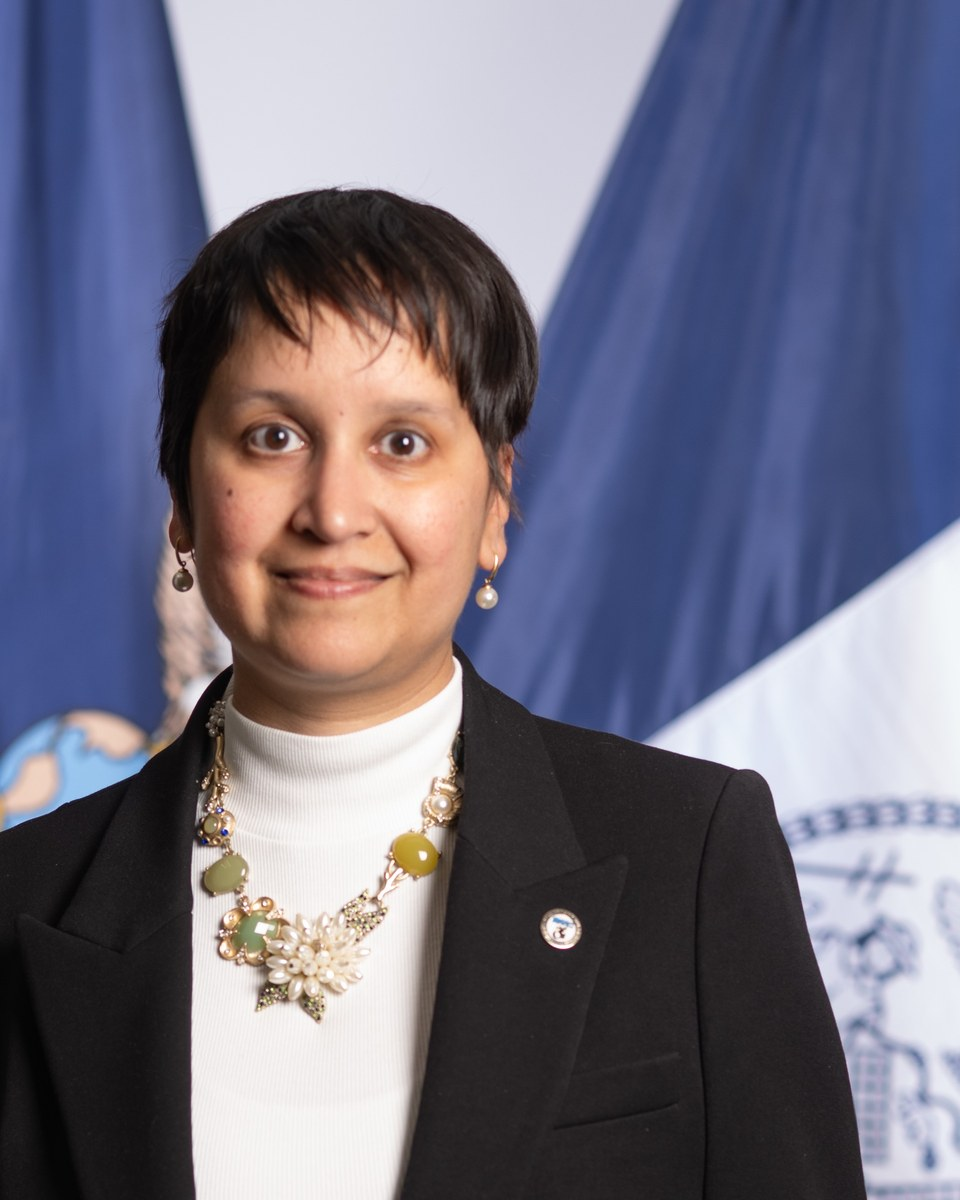
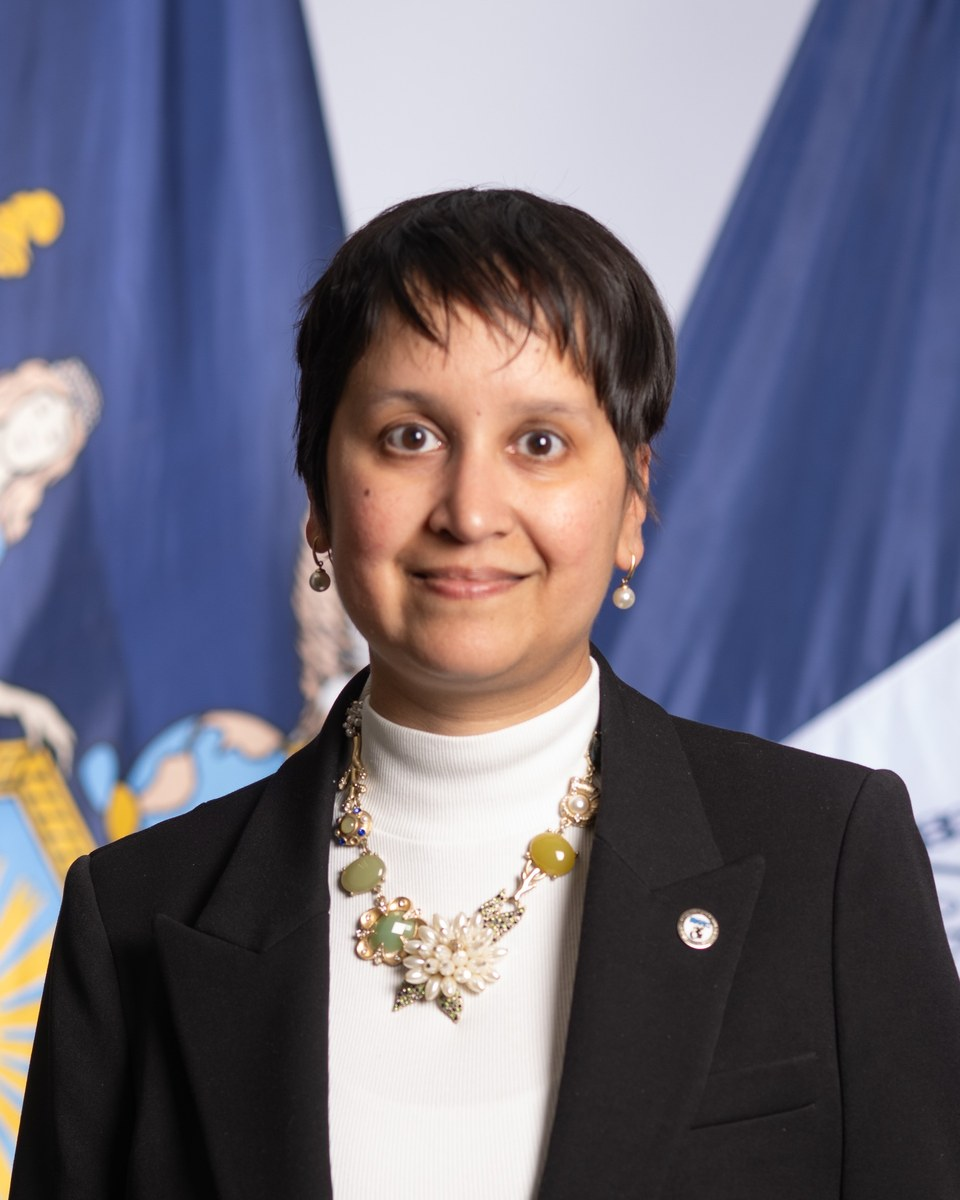
Add Opening Remarks details and center Nisha portrait

diff --git a/components/agenda/AgendaTimeline.tsx b/components/agenda/AgendaTimeline.tsx
@@ -1,14 +1,14 @@
 "use client";
 
 import { Fragment, useState, useSyncExternalStore, type CSSProperties } from "react";
-import { confirmedSpeakers, type AgendaEntry } from "@/data/agenda";
+import type { AgendaEntry } from "@/data/agenda";
 import { clock, formatDuration, formatRange } from "@/lib/agenda-time";
 import { CourseLabel, CreditLine, People, ViewSpeakersLink, hasDetails } from "./AgendaParts";
 import styles from "./Agenda.module.css";
 
 const desktopQuery = "(min-width: 901px)";
 
-/** Wide screens show a detail panel beside the rail; narrow screens expand the course in place. */
+/** Wide screens show a detail panel beside the rail; narrow screens expand the entry in place. */
 function useIsDesktop() {
   return useSyncExternalStore(
     notify => {
@@ -42,7 +42,7 @@ function Rail({ marker }: { marker?: "course" | "plain" }) {
   );
 }
 
-function CourseSummary({ entry }: { entry: AgendaEntry }) {
+function EntrySummary({ entry }: { entry: AgendaEntry }) {
   return (
     <span className={styles.summary}>
       <CourseLabel entry={entry} />
@@ -54,46 +54,37 @@ function CourseSummary({ entry }: { entry: AgendaEntry }) {
 }
 
 function PlainBlock({ entry }: { entry: AgendaEntry }) {
-  const speakers = confirmedSpeakers(entry);
   return (
     <div className={`${styles.block} ${styles.blockPlain}`}>
       <span className={styles.title}>{entry.title}</span>
       {entry.kind === "keynote" ? <span className={styles.range}>{formatRange(entry.start, entry.end)}</span> : null}
-      {speakers.length > 0 ? (
-        <ul className={styles.speakers} aria-label={`${entry.title} speakers`}>
-          {speakers.map(speaker => (
-            <li key={speaker.name}>
-              <span className={styles.speakerName}>{speaker.name}</span>
-              {speaker.role ? <span className={styles.speakerRole}>{speaker.role}</span> : null}
-            </li>
-          ))}
-        </ul>
-      ) : null}
+      <People entry={entry} />
     </div>
   );
 }
 
-interface CourseCellProps {
+interface DetailsCellProps {
   entry: AgendaEntry;
   open: boolean;
+  controlsId: string;
   onToggle: () => void;
 }
 
-/** Course block: a button that selects it (wide) or expands its details beneath it (narrow). */
-function CourseCell({ entry, open, onToggle }: CourseCellProps) {
+/** Select an entry in the wide panel or expand its details beneath the row on narrow screens. */
+function DetailsCell({ entry, open, controlsId, onToggle }: DetailsCellProps) {
   if (!hasDetails(entry)) {
     return (
       <div className={`${styles.block} ${styles.blockCourse}`}>
-        <CourseSummary entry={entry} />
+        <EntrySummary entry={entry} />
       </div>
     );
   }
   const detailsId = `agenda-details-${entry.id}`;
   return (
     <div className={styles.cell}>
-      <button type="button" className={styles.courseButton} aria-expanded={open} aria-controls={detailsId} onClick={onToggle}>
+      <button type="button" className={styles.courseButton} aria-expanded={open} aria-controls={controlsId} onClick={onToggle}>
         <span className={`${styles.block} ${styles.blockCourse}`}>
-          <CourseSummary entry={entry} />
+          <EntrySummary entry={entry} />
           <span className={styles.more}>
             Details
             <svg className={styles.chevron} aria-hidden="true" width="16" height="16" viewBox="0 0 24 24" fill="none" stroke="currentColor" strokeWidth="1.5" strokeLinecap="round" strokeLinejoin="round"><path d="m6 9 6 6 6-6" /></svg>
@@ -112,7 +103,7 @@ function CourseCell({ entry, open, onToggle }: CourseCellProps) {
   );
 }
 
-function CoursePanel({ entry, animate }: { entry: AgendaEntry; animate: boolean }) {
+function DetailsPanel({ entry, animate }: { entry: AgendaEntry; animate: boolean }) {
   return (
     <article className={styles.panelBody} data-switched={animate || undefined}>
       <header className={styles.panelHeader}>
@@ -132,13 +123,13 @@ function CoursePanel({ entry, animate }: { entry: AgendaEntry; animate: boolean 
 
 export function AgendaTimeline({ entries }: { entries: readonly AgendaEntry[] }) {
   const isDesktop = useIsDesktop();
-  const courses = entries.filter(entry => entry.kind === "course" && hasDetails(entry));
-  // Wide: one course is always selected. Narrow: courses start collapsed and toggle independently.
-  const [selectedId, setSelectedId] = useState(courses[0]?.id);
+  const detailEntries = entries.filter(hasDetails);
+  // Preserve the initial course selection; remarks join the same panel when selected.
+  const [selectedId, setSelectedId] = useState(() => detailEntries.find(entry => entry.kind === "course")?.id ?? detailEntries[0]?.id);
   const [expandedId, setExpandedId] = useState<string | null>(null);
-  // The panel fades only after the visitor switches courses, never on first paint.
+  // The panel fades only after the visitor switches entries, never on first paint.
   const [switched, setSwitched] = useState(false);
-  const selected = courses.find(course => course.id === selectedId);
+  const selected = detailEntries.find(entry => entry.id === selectedId);
 
   const isOpen = (id: string) => (isDesktop ? selectedId === id : expandedId === id);
   const toggle = (id: string) => {
@@ -174,8 +165,13 @@ export function AgendaTimeline({ entries }: { entries: readonly AgendaEntry[] })
                   <div className={`${styles.block} ${styles.blockBreak}`}>
                     {entry.title}{entry.end === undefined ? null : ` · ${formatDuration(entry.end - entry.start)}`}
                   </div>
-                ) : entry.kind === "course" ? (
-                  <CourseCell entry={entry} open={isOpen(entry.id)} onToggle={() => toggle(entry.id)} />
+                ) : entry.kind === "course" || hasDetails(entry) ? (
+                  <DetailsCell
+                    entry={entry}
+                    open={isOpen(entry.id)}
+                    controlsId={isDesktop ? "agenda-selected-details" : `agenda-details-${entry.id}`}
+                    onToggle={() => toggle(entry.id)}
+                  />
                 ) : (
                   <PlainBlock entry={entry} />
                 )}
@@ -185,8 +181,8 @@ export function AgendaTimeline({ entries }: { entries: readonly AgendaEntry[] })
         })}
       </ol>
       {selected ? (
-        <aside className={styles.panel} aria-live="polite" aria-label="Course details">
-          <CoursePanel key={selected.id} entry={selected} animate={switched} />
+        <aside id="agenda-selected-details" className={styles.panel} aria-live="polite" aria-label="Agenda details">
+          <DetailsPanel key={selected.id} entry={selected} animate={switched} />
         </aside>
       ) : null}
     </div>

diff --git a/components/agenda/AgendaParts.tsx b/components/agenda/AgendaParts.tsx
@@ -1,9 +1,12 @@
-import { speakersPath, type AgendaEntry } from "@/data/agenda";
+import { confirmedSpeakers, speakersPath, type AgendaEntry } from "@/data/agenda";
 import { courseNumberLabel, formatCredit, plural } from "@/lib/agenda-time";
 import styles from "./Agenda.module.css";
 
 export function hasDetails(entry: AgendaEntry) {
-  return Boolean(entry.moderators?.length || entry.instructors?.length || entry.speakersPanel);
+  return Boolean(
+    entry.moderators?.length || entry.instructors?.length || entry.speakersPanel ||
+    (entry.kind === "remarks" && entry.speakers?.some(speaker => speaker.confirmed)),
+  );
 }
 
 export function CourseLabel({ entry }: { entry: AgendaEntry }) {
@@ -30,22 +33,37 @@ function NameGroup({ label, names }: { label: string; names: readonly string[] }
 }
 
 export function People({ entry }: { entry: AgendaEntry }) {
+  const speakers = confirmedSpeakers(entry);
   const moderators = entry.moderators ?? [];
   const instructors = entry.instructors ?? [];
-  if (moderators.length === 0 && instructors.length === 0) return null;
+  if (speakers.length === 0 && moderators.length === 0 && instructors.length === 0) return null;
   return (
-    <dl className={styles.people}>
-      {moderators.length > 0 ? <NameGroup label={plural(moderators.length, "Moderator", "Moderators")} names={moderators} /> : null}
-      {instructors.length > 0 ? <NameGroup label="Panelists" names={instructors} /> : null}
-    </dl>
+    <>
+      {speakers.length > 0 ? (
+        <ul className={styles.speakers} aria-label={`${entry.title} speakers`}>
+          {speakers.map(speaker => (
+            <li key={speaker.name}>
+              <span className={styles.speakerName}>{speaker.name}</span>
+              {speaker.role ? <span className={styles.speakerRole}>{speaker.role}</span> : null}
+            </li>
+          ))}
+        </ul>
+      ) : null}
+      {moderators.length > 0 || instructors.length > 0 ? (
+        <dl className={styles.people}>
+          {moderators.length > 0 ? <NameGroup label={plural(moderators.length, "Moderator", "Moderators")} names={moderators} /> : null}
+          {instructors.length > 0 ? <NameGroup label="Panelists" names={instructors} /> : null}
+        </dl>
+      ) : null}
+    </>
   );
 }
 
-/** Link to this course's tab on the speakers page; SpeakerCourses opens the tab named by the hash. */
+/** Course links open the matching tab; remarks link to the featured speakers at the top of the page. */
 export function ViewSpeakersLink({ entry }: { entry: AgendaEntry }) {
-  if (!entry.speakersPanel) return null;
+  if (!entry.speakersPanel && entry.kind !== "remarks") return null;
   return (
-    <a className={styles.speakersLink} href={`${speakersPath}#${entry.speakersPanel}`}>
+    <a className={styles.speakersLink} href={entry.speakersPanel ? `${speakersPath}#${entry.speakersPanel}` : speakersPath}>
       View speakers
       <svg aria-hidden="true" width="16" height="16" viewBox="0 0 24 24" fill="none" stroke="currentColor" strokeWidth="1.5" strokeLinecap="round" strokeLinejoin="round"><path d="M5 12h14" /><path d="m12 5 7 7-7 7" /></svg>
     </a>

diff --git a/docs/ASSET-CREDITS.md b/docs/ASSET-CREDITS.md
@@ -18,4 +18,4 @@ The website renders the artwork white with CSS (`brightness(0) invert(1)`) over 
 
 `assets/headshots/traci-wheelwright.jpg`: supplied by the site owner as `image.png`. Converted to JPEG at the original 1312 × 1199 resolution, with the site's existing responsive portrait crop. It replaces the previously supplied `Traci_Wheelwright_1.jpg` portrait.
 
-`assets/headshots/nisha-agarwal.jpg`: supplied by the site owner as `Nisha head shot.jpg`, together with the approved biography. Cropped to an upper-body 4:5 portrait and resized to 960 × 1200 pixels for the speaker card and biography dialog.
+`assets/headshots/nisha-agarwal.jpg`: supplied by the site owner as `Nisha head shot.jpg`, together with the approved biography. Cropped to a face-centered, upper-body 4:5 portrait and resized to 960 × 1200 pixels for the speaker card and biography dialog.
